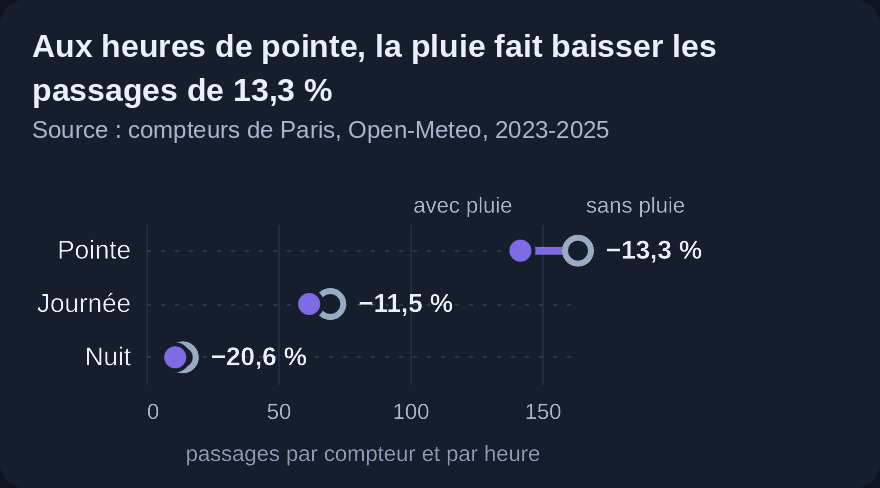
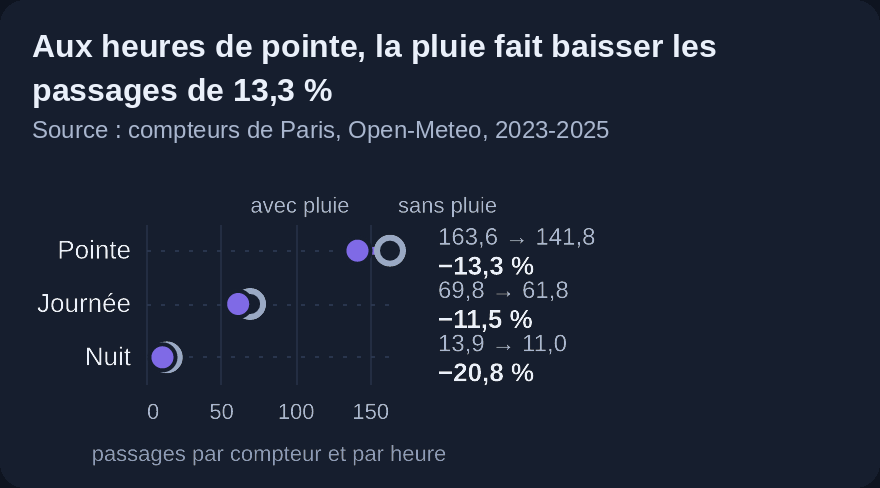
Power BI météo 3 ans : classes de température réelles, haltères avec colonne de valeurs
Claude-Session: https://claude.ai/code/session_01FeYRkiVkB9v4BYQDjBQ1Bv

diff --git a/powerbi/outils/specs.py b/powerbi/outils/specs.py
@@ -432,13 +432,14 @@ def meteo_halteres():
     return {
         "$schema": VL,
         "data": {"name": "dataset"},
-        "padding": {"top": 26, "left": 6, "right": 70, "bottom": 6},
+        "padding": {"top": 26, "left": 6, "right": 124, "bottom": 6},
         "transform": [
             {"calculate": "datum['Passages avec pluie'] / datum['Passages sans pluie'] - 1", "as": "ecart"},
             {"calculate": "upper(slice(datum.periode, 0, 1)) + slice(datum.periode, 1)", "as": "libelle"},
             {"calculate": "indexof(['pointe', 'journée', 'nuit'], datum.periode)", "as": "ordre"},
             {"calculate": "max(datum['Passages avec pluie'], datum['Passages sans pluie'])", "as": "borne"},
             {"calculate": SIGNE_PCT % ("ecart", "ecart"), "as": "texte_ecart"},
+            {"calculate": "replace(format(datum['Passages sans pluie'], '.1f'), '.', ',') + ' → ' + replace(format(datum['Passages avec pluie'], '.1f'), '.', ',')", "as": "texte_valeurs"},
         ],
         "layer": [
             {"mark": {"type": "rule", "strokeWidth": 4, "strokeCap": "round", "color": S["pluie"], "tooltip": None},
@@ -454,8 +455,11 @@ def meteo_halteres():
                                       {"field": "Passages sans pluie", "type": "quantitative", "title": "Sans pluie", "format": ".1f"},
                                       {"field": "Passages avec pluie", "type": "quantitative", "title": "Avec pluie", "format": ".1f"},
                                       {"field": "texte_ecart", "type": "nominal", "title": "Écart"}]}},
-            {"mark": {"type": "text", "align": "left", "dx": 14, "fontSize": TAILLE_LABEL + 1, "fontWeight": 600, "color": T["principal"], "tooltip": None},
-             "encoding": {"y": ligne, "x": {**xs, "field": "borne"}, "text": {"field": "texte_ecart"}}},
+            # colonne de valeurs à droite : « sans → avec » puis l'écart, lisible même quand les deux points se superposent (nuit)
+            {"mark": {"type": "text", "align": "left", "dx": 24, "dy": -7, "fontSize": TAILLE_AXE + 1, "color": T["secondaire"], "tooltip": None},
+             "encoding": {"y": ligne, "x": {"value": {"expr": "width"}}, "text": {"field": "texte_valeurs"}}},
+            {"mark": {"type": "text", "align": "left", "dx": 24, "dy": 8, "fontSize": TAILLE_LABEL + 1, "fontWeight": 600, "color": T["principal"], "tooltip": None},
+             "encoding": {"y": ligne, "x": {"value": {"expr": "width"}}, "text": {"field": "texte_ecart"}}},
             {"transform": [{"filter": "datum.ordre === 0"}],
              "layer": [{"mark": {"type": "text", "align": "left", "dx": 4, "dy": -22, "fontSize": TAILLE_AXE, "color": T["secondaire"]},
                         "encoding": {"y": ligne, "x": {**xs, "field": "Passages sans pluie"}, "text": {"value": "sans pluie"}}},

diff --git a/powerbi/outils/generer_design.py b/powerbi/outils/generer_design.py
@@ -164,6 +164,13 @@ Page « Météo · 3 ans de compteurs » (4 visuels) :
 | Classes de température | note et maximum annoté superposés | marge en haut de l'axe, note alignée à gauche, maximum annoté au-dessus de la barre |
 | Profil horaire | légende posée sur le pic du soir | légende en haut à gauche, zone libre de la nuit |
 
+Troisième tour (page météo 3 ans) :
+
+| Visuel | Défaut relevé | Correction |
+|---|---|---|
+| Haltères période | sur l'échelle commune 0–170, la ligne « Nuit » (13,9 → 11,0) est réduite à un point : l'écart ne se voit pas | **échelle commune conservée** (une échelle par ligne ferait paraître la nuit aussi fréquentée que la pointe et casserait la comparaison entre périodes) ; colonne de valeurs à droite de chaque ligne : « sans → avec » (ex. « 13,9 → 11,0 ») puis l'écart en gras (« −20,6 % ») ; le nombre dit ce que le dessin ne peut pas montrer pour la nuit |
+| Classes de température | libellés et découpage non conformes à la colonne source | valeurs de `classe_temperature` reprises telles quelles (« 1. moins de 5 °C », « 2. 5 à 12 °C », « 3. 12 à 20 °C », « 4. 20 à 27 °C », « 5. 27 °C et plus ») ; le préfixe numérique ne sert qu'au tri et est retiré à l'affichage (axe, infobulle, titre dynamique) ; le titre reprend la classe réelle du maximum (« 20 à 27 °C (193,9 par compteur) ») |
+
 Deuxième tour (retours de relecture) :
 
 | Visuel | Défaut relevé | Correction |

diff --git a/powerbi/outils/donnees_apercu.py b/powerbi/outils/donnees_apercu.py
@@ -132,7 +132,7 @@ def meteo_courbes():
 def meteo3_halteres():
     return [{"periode": "pointe", "Passages sans pluie": 163.6, "Passages avec pluie": 141.8},
             {"periode": "journée", "Passages sans pluie": 69.8, "Passages avec pluie": 61.8},
-            {"periode": "nuit", "Passages sans pluie": 13.94, "Passages avec pluie": 11.07}]
+            {"periode": "nuit", "Passages sans pluie": 13.94, "Passages avec pluie": 11.04}]
 
 
 def meteo3_effet():
@@ -142,7 +142,7 @@ def meteo3_effet():
 
 def meteo3_classes():
     vals = [139.8, 152.0, 172.5, 193.9, 184.1]
-    labels = ["1. moins de 5 °C", "2. 5 à 12 °C", "3. 12 à 18 °C", "4. 18 à 27 °C", "5. 27 °C et plus"]
+    labels = ["1. moins de 5 °C", "2. 5 à 12 °C", "3. 12 à 20 °C", "4. 20 à 27 °C", "5. 27 °C et plus"]
     heures = [310, 905, 1240, 1020, 410]
     return [{"classe_temperature": l, "Passages pointe temps sec": v, "Heures pointe temps sec": h} for l, v, h in zip(labels, vals, heures)]
 

diff --git a/powerbi/DESIGN.md b/powerbi/DESIGN.md
@@ -183,6 +183,13 @@ Page « Météo · 3 ans de compteurs » (4 visuels) :
 | Classes de température | note et maximum annoté superposés | marge en haut de l'axe, note alignée à gauche, maximum annoté au-dessus de la barre |
 | Profil horaire | légende posée sur le pic du soir | légende en haut à gauche, zone libre de la nuit |
 
+Troisième tour (page météo 3 ans) :
+
+| Visuel | Défaut relevé | Correction |
+|---|---|---|
+| Haltères période | sur l'échelle commune 0–170, la ligne « Nuit » (13,9 → 11,0) est réduite à un point : l'écart ne se voit pas | **échelle commune conservée** (une échelle par ligne ferait paraître la nuit aussi fréquentée que la pointe et casserait la comparaison entre périodes) ; colonne de valeurs à droite de chaque ligne : « sans → avec » (ex. « 13,9 → 11,0 ») puis l'écart en gras (« −20,6 % ») ; le nombre dit ce que le dessin ne peut pas montrer pour la nuit |
+| Classes de température | libellés et découpage non conformes à la colonne source | valeurs de `classe_temperature` reprises telles quelles (« 1. moins de 5 °C », « 2. 5 à 12 °C », « 3. 12 à 20 °C », « 4. 20 à 27 °C », « 5. 27 °C et plus ») ; le préfixe numérique ne sert qu'au tri et est retiré à l'affichage (axe, infobulle, titre dynamique) ; le titre reprend la classe réelle du maximum (« 20 à 27 °C (193,9 par compteur) ») |
+
 Deuxième tour (retours de relecture) :
 
 | Visuel | Défaut relevé | Correction |
